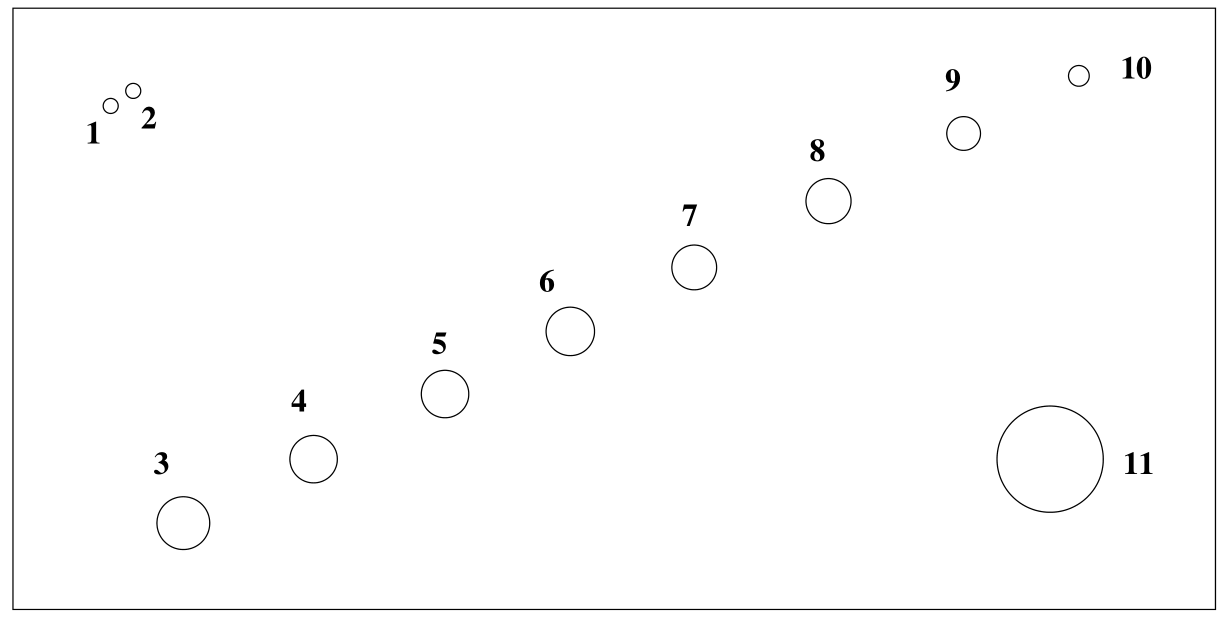
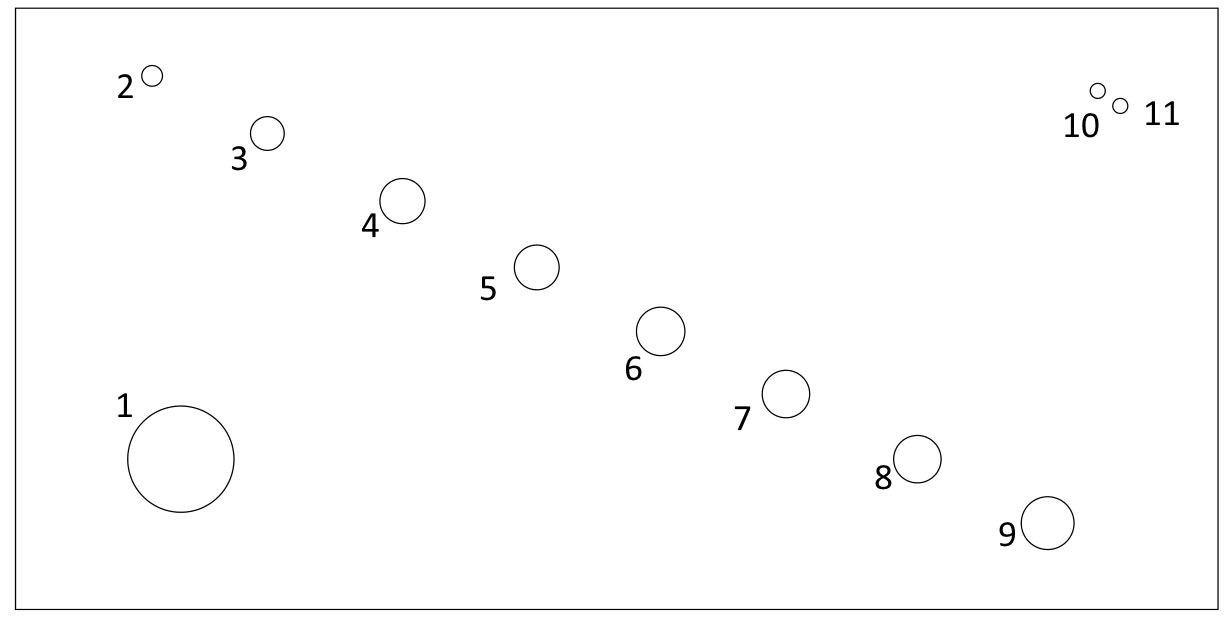
US2: Bisschen Auswertung + gitignore

diff --git a/US2/PythonSkript.py b/US2/PythonSkript.py
@@ -157,3 +157,100 @@ from error_calculation import(
 
 ########## DIFFERENT STUFF ##########
 # R = const.physical_constants["molar gas constant"]      # Array of value, unit, error
+
+
+###########Daten des Blocks################
+
+tiefe  = 4.03*10**(-2)
+breite = 15.02*10**(-2)
+hoehe  = 8.035*10**(-2)
+
+##########A-Scan##################
+
+c = 2730
+t_start = 1.6*10**(-6)
+t_end = 59.4*10**(-6)
+
+hoehe_mess = c*(t_end-t_start)/2
+
+D_o , t_o, t_u = np.genfromtxt('messdaten/a.txt', unpack=True)
+D_o = D_o*10**(-2)
+t_o = t_o*10**(-6)
+t_u = t_u*10**(-6)
+
+D_mess_o = D_o
+D_mess_u = D_o
+
+
+D_mess_o = c*t_o/2
+D_mess_u = c*t_u/2
+D_loch = hoehe_mess - (D_mess_o + D_mess_u)
+
+
+D_mess_o = D_mess_o*10**(2)
+D_mess_u = D_mess_u*10**(2)
+D_o = D_o*10**2
+D_loch = D_loch*10**3
+List = [1,2,3,4,5,6,7,8,9,10,11]
+write('build/Tabelle_a.tex', make_table([List, D_o, D_mess_o, D_mess_u, D_loch],[0,2,2,2,2])) #cm, cm ,cm, mm
+write('build/Tabelle_a_texformat.tex', make_full_table(
+    'Messdaten Tiefenmessungen.',
+    'table:1',
+    'build/Tabelle_a.tex',
+    [],              # Hier aufpassen: diese Zahlen bezeichnen diejenigen resultierenden Spaltennummern,
+                              # die Multicolumns sein sollen
+    [
+    r'$\text{Stelle}$',
+    r'$D_{\text{oben}} \:/\: \si{\centi\metre}$',
+    r'$D_{\text{oben,gem}} \:/\: \si{\centi\metre}$',
+    r'$D_{\text{unten,gem}} \:/\: \si{\centi\metre}$',
+    r'$D_{\text{loch,gem}} \:/\: \si{\milli\metre}$']))
+
+D_o_rel_a = abs(D_mess_o-D_o)/D_o * 100
+D_o_rel_a = np.mean(D_o_rel_a)
+write('build/D_o_rel_a.tex', make_SI(D_o_rel_a, r'\percent', figures=2)) #um herauszufinden, welche Methode besser ist (Spoiler: Durchschnittlich 4% Abweichung)
+
+#####################B-Scan##################
+
+t_start = 5.5*0.5*10**(-6)
+t_end = (55+0.5*7)*10**(-6)
+
+hoehe_mess = c*(t_end-t_start)/2
+
+t_o, t_u = np.genfromtxt('messdaten/b.txt', unpack=True)
+
+D_o = D_o*10**(-2)
+t_o = t_o*10**(-6)
+t_u = t_u*10**(-6)
+
+D_mess_o = D_o
+D_mess_u = D_o
+
+
+D_mess_o = c*t_o/2
+D_mess_u = c*t_u/2
+D_loch = hoehe_mess - (D_mess_o + D_mess_u)
+
+
+D_mess_o = D_mess_o*10**(2)
+D_mess_u = D_mess_u*10**(2)
+D_o = D_o*10**2
+D_loch = D_loch*10**3
+List = [1,2,3,4,5,6,7,8,9,10,11]
+write('build/Tabelle_b.tex', make_table([List, D_o, D_mess_o, D_mess_u, D_loch],[0,2,2,2,2])) #cm, cm ,cm, mm
+write('build/Tabelle_b_texformat.tex', make_full_table(
+    'Messdaten Tiefenmessungen.',
+    'table:2',
+    'build/Tabelle_b.tex',
+    [],              # Hier aufpassen: diese Zahlen bezeichnen diejenigen resultierenden Spaltennummern,
+                              # die Multicolumns sein sollen
+    [
+    r'$\text{Stelle}$',
+    r'$D_{\text{oben}} \:/\: \si{\centi\metre}$',
+    r'$D_{\text{oben,gem}} \:/\: \si{\centi\metre}$',
+    r'$D_{\text{unten,gem}} \:/\: \si{\centi\metre}$',
+    r'$D_{\text{loch,gem}} \:/\: \si{\milli\metre}$']))
+
+D_o_rel_b = abs(D_mess_o-D_o)/D_o * 100
+D_o_rel_b = np.mean(D_o_rel_b)
+write('build/D_o_rel_b.tex', make_SI(D_o_rel_b, r'\percent', figures=2))  #um herauszufinden, welche Methode besser ist (Spoiler: Durchschnittlich 15% Abweichung)

diff --git a/US2/datenersteller.py b/US2/datenersteller.py
@@ -1,1 +1,51 @@
 # Überführt Messdaten in auslesbare Textdaten (optional)
+import os, sys, inspect
+# realpath() will make your script run, even if you symlink it :)
+cmd_folder = os.path.realpath(os.path.abspath(os.path.split(inspect.getfile( inspect.currentframe() ))[0]))
+if cmd_folder not in sys.path:
+    sys.path.insert(0, cmd_folder)
+
+ # use this if you want to include modules from a subfolder
+cmd_subfolder = os.path.realpath(os.path.abspath(os.path.join(os.path.split(inspect.getfile( inspect.currentframe() ))[0],"python_custom_scripts")))
+if cmd_subfolder not in sys.path:
+    sys.path.insert(0, cmd_subfolder)
+
+import matplotlib.pyplot as plt
+import numpy as np
+import uncertainties.unumpy as unp
+from uncertainties.unumpy import (
+    nominal_values as noms,
+    std_devs as stds,
+)
+from table import (
+    make_table,
+    make_SI,
+    write,
+)
+from uncertainties import ufloat
+
+##############A-Scan###################
+
+t_start = 1.6
+
+D_o = np.array([5.5, 0.65, 1.45, 2.265, 3.08, 3.885, 4.625, 5.395, 6.13, 1.76, 1.94])
+t_o = np.array([41.3, 5.9, 11.6, 17.5, 23.3, 29.2, 34.6, 40, 45.6, 13.8, 15.1])
+t_u = np.array([11.8, 52.6, 46.7, 40.8, 34.9, 29.2, 22.9, 16.7, 10.4, 45.6, 44.4])
+
+t_o = t_o-t_start
+t_u = t_u-t_start
+
+
+np.savetxt('messdaten/a.txt', np.column_stack([D_o, t_o, t_u]), header="D_oben [cm], t_oben[µs], t_unten[µs]")
+
+#############B-Scan#################
+
+t_start = 5.5*0.5
+
+t_o = np.array([40+2*0.5, 5+0.5*0.5, 10+1, 15+0.5*3.5, 20+0.5*5, 25+0.5*7.5, 30+0.5*8, 35+0.5*9, 45, 10+0.5*6, 10+0.5*9.5])
+t_u = np.array([10+3*0.5, 50+5*0.5, 45+0.5*2.5, 40+0.5, 30+0.5*9, 25+0.5*7.5, 20+0.5*4.5, 15+0.5*2.5, 10, 45, 40+7*0.5])
+
+t_o = t_o-t_start
+t_u = t_u-t_start
+
+np.savetxt('messdaten/b.txt', np.column_stack([t_o, t_u]), header="t_oben[µs], t_unten[µs]")

diff --git a/US2/content/auswertung.tex b/US2/content/auswertung.tex
@@ -1,6 +1,43 @@
 \section{Auswertung}
 \label{sec:Auswertung}
 
+\subsection{Ausmessung des Acryl-Blocks mittels A-Scan}
+
+Die Ausmessung des Blocks via Schieblehre und A-Scan führt zu den Daten, welche in Tabelle \ref{table:1} dargestellt sind.
+\input{build/Tabelle_a_texformat.tex}
+Dabei ist anzumerken, dass der tatsächliche Abstand der beiden letzten Fehlstellen $\Delta D = \SI{1.8}{\milli\metre}$ entspricht.
+Die Messung übergibt einen Abstand von $\Delta D = \SI{1.7}{\milli\metre}$.
+Folglich besitzt der A-Scan eine minimale Auflösung von etwa $\SI{1.7}{\milli\metre}$.\\
+Zur Berechnung wird eine Phasengeschwindigkeit von $\SI{2730}{\metre\per\second}$ verwendet. \cite{schall}
+
+\subsection{Ausmessung des Acryl-Blocks mittels B-Scan}
+Das Ergebnis des B-Scans von oben ist in Abbildung \ref{figure:1} wiedergegeben; das des unteren in Abbildung \ref{figure:2}.
+
+\begin{figure}[H]
+  \centering
+  \includegraphics[height=7.5cm]{messdaten/b_oben.png}
+  \caption{Ergebnis des B-Scans von oben.}
+  \label{figure:1}
+\end{figure}
+
+\begin{figure}[H]
+  \centering
+  \includegraphics[height=7.5cm]{messdaten/b_unten.png}
+  \caption{Ergebnis des B-Scans von unten.}
+  \label{figure:2}
+\end{figure}
+
+Aus diesen beiden Grafiken ergeben sich die Messdaten aus Tabelle \ref{table:2}.
+\input{build/Tabelle_b_texformat.tex}
+\\In der Diskussion werden die Ergebnisse aus A- und B-Scan verglichen.
+
+
+
+
+
+
+
+
 % % Examples
 % \begin{equation}
 %   U(t) = a \sin(b t + c) + d
